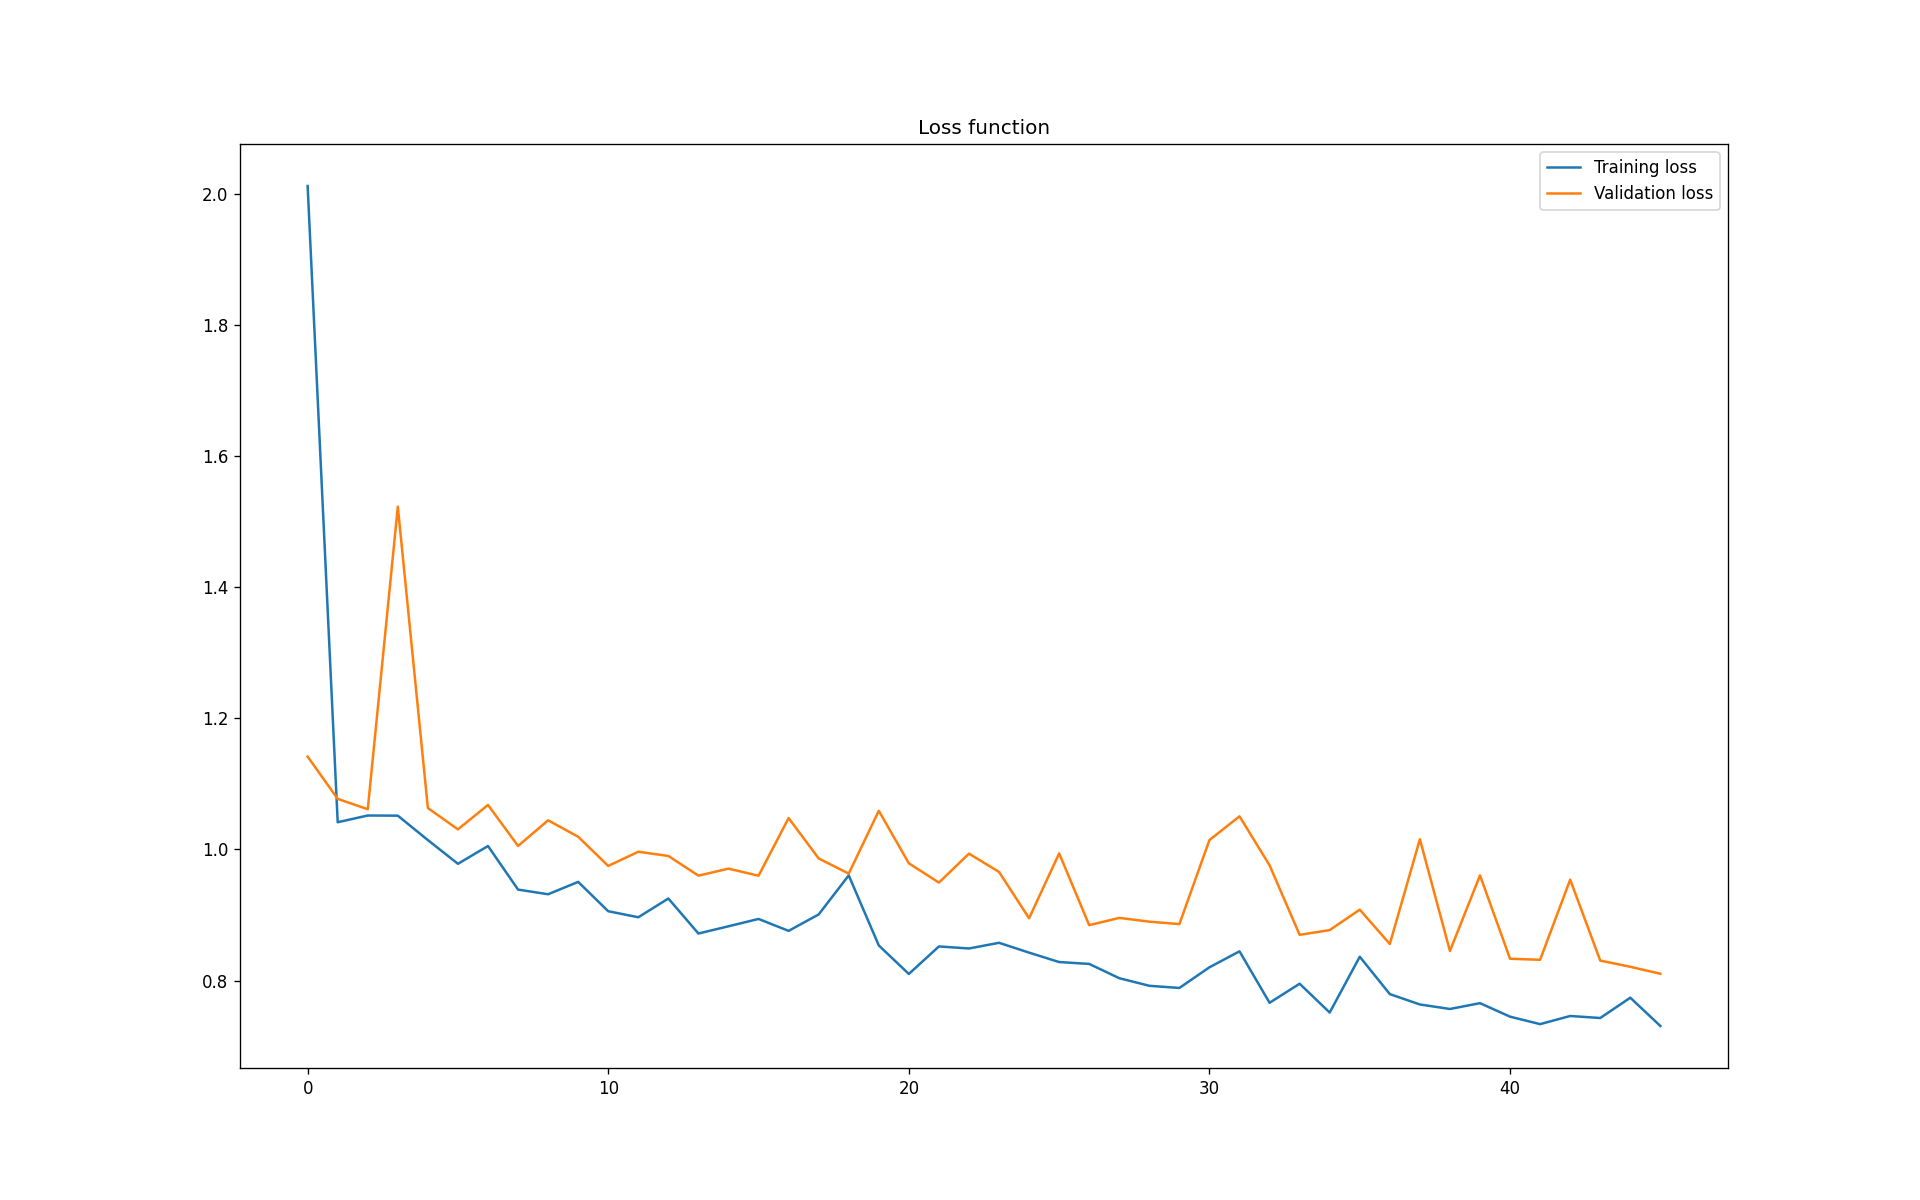
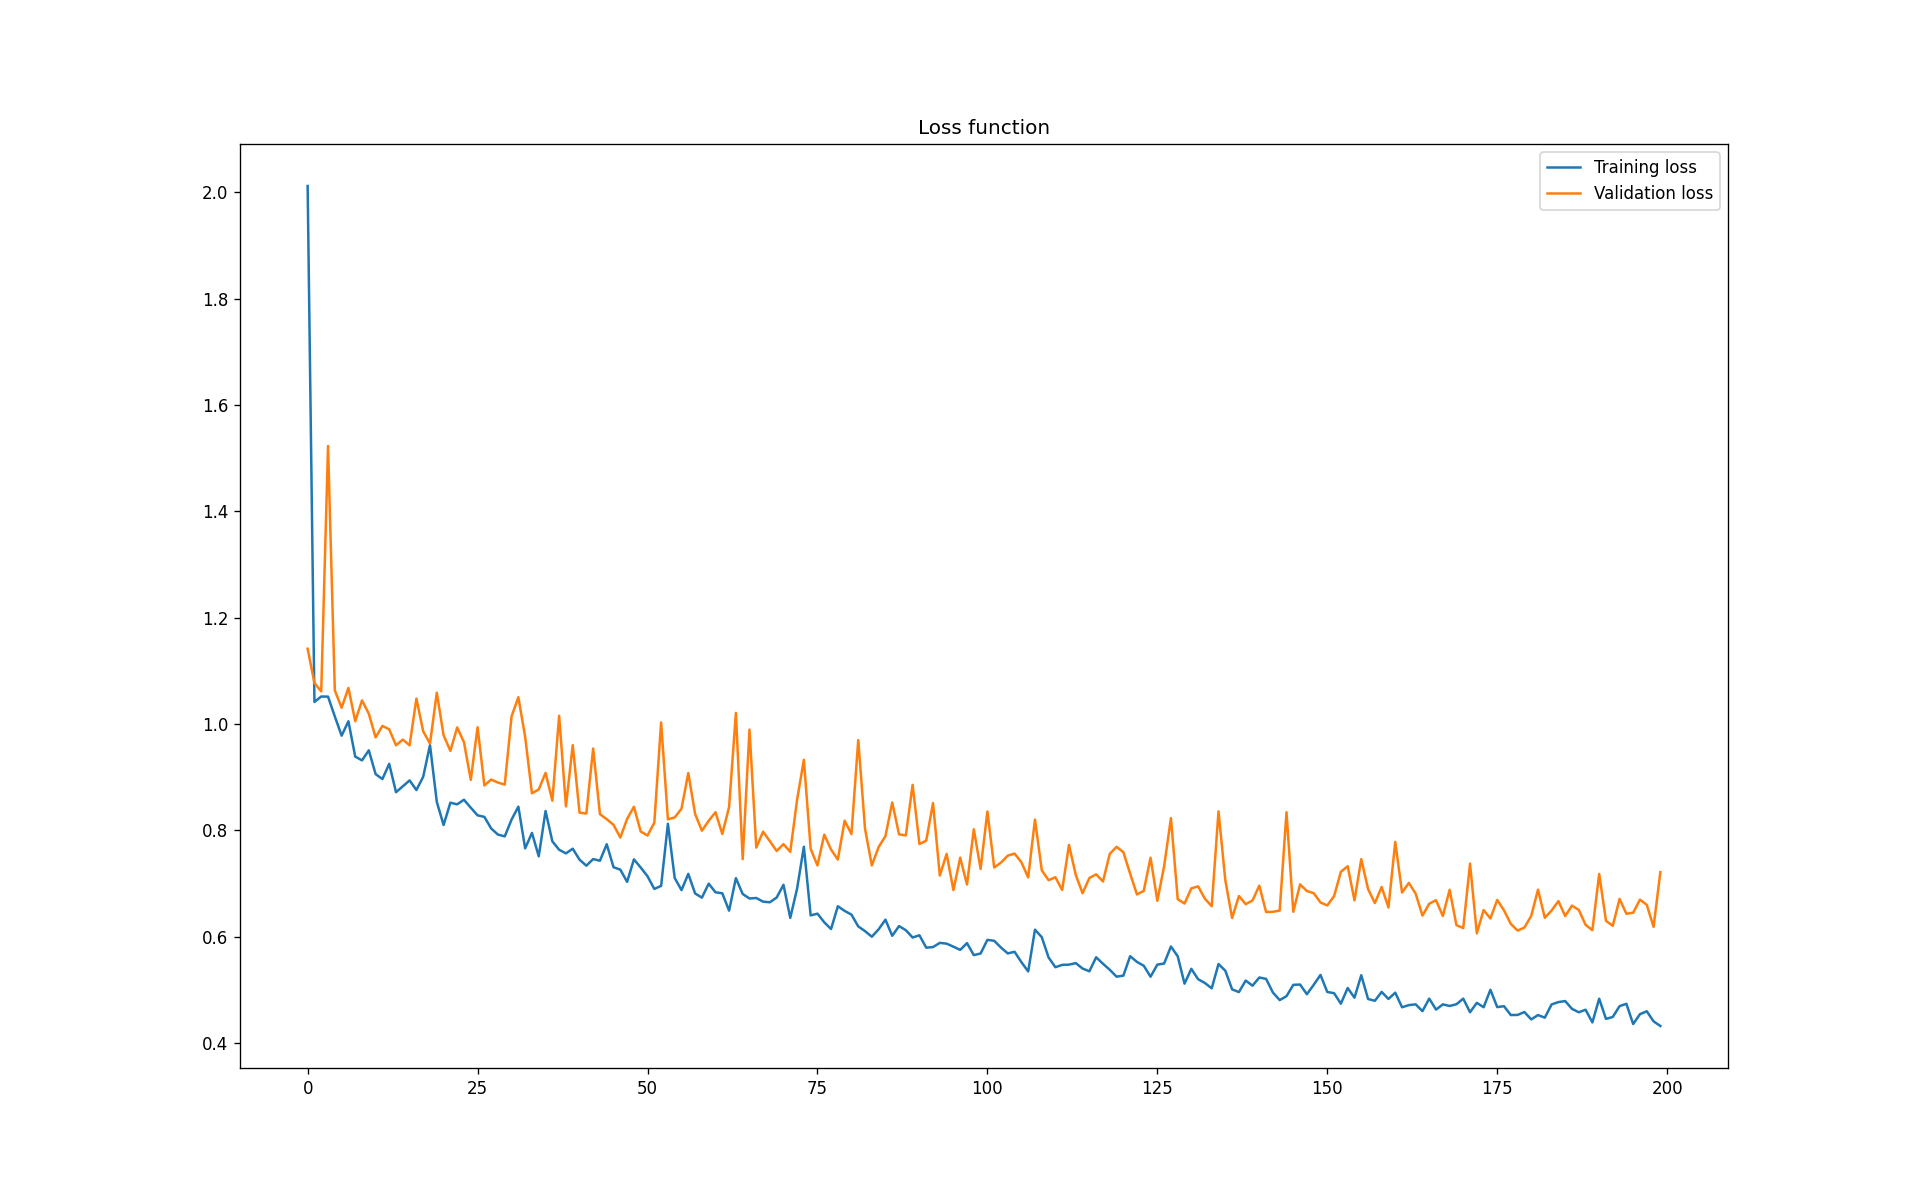
summaries

diff --git a/getbest.py b/getbest.py
@@ -47,10 +47,10 @@ def visualize_sample(model, img, gt_depth, loss, title, nsamples=3):
         depth_numpy = torch.squeeze(depth).detach().cpu().numpy()
 
         # Visualize
-        ax[r*3].imshow(gt_depth_numpy)
+        ax[r*3].imshow(gt_depth_numpy, vmin=0, vmax=10, cmap='gray')
         ax[r*3].set_axis_off()
         ax[r*3].set_title('Ground truth depth')
-        ax[r*3+1].imshow(depth_numpy)
+        ax[r*3+1].imshow(depth_numpy, vmin=0, vmax=10, cmap='gray')
         ax[r*3+1].set_axis_off()
         ax[r*3+1].set_title('Prediction depth')
         ax[r*3+2].imshow(image_numpy)
@@ -62,10 +62,8 @@ def visualize_sample(model, img, gt_depth, loss, title, nsamples=3):
     plt.tight_layout()
     #plt.show()
 
-    print("loss = ", loss.item())
 
-
-def test(model, test_set):
+def test(model, test_set, title):
     global w1, w2
 
     # Loss function dictionary
@@ -85,7 +83,7 @@ def test(model, test_set):
 
     for itr in range(N_test):
         # Verbose
-        print('Iteration %d/%d' %(itr+1, N_test))
+        # print('Iteration %d/%d' %(itr+1, N_test))
 
         # Get images and depths
         tgt_img, gt_depth = test_set.getSample(num=itr)
@@ -109,16 +107,16 @@ def test(model, test_set):
             running_loss_smooth += loss_3.item() / N_test
             running_loss += loss.item() / N_test
 
-            if best_loss == None or best_loss > loss:
-                best_img, best_dpt, best_loss = tgt_img, gt_depth, loss
-            if worst_loss == None or worst_loss < loss:
-                worst_img, worst_dpt, worst_loss = tgt_img, gt_depth, loss
+            if best_loss == None or best_loss > loss.item():
+                best_img, best_dpt, best_loss = tgt_img, gt_depth, loss.item()
+            if worst_loss == None or worst_loss < loss.item():
+                worst_img, worst_dpt, worst_loss = tgt_img, gt_depth, loss.item()
 
             torch.cuda.empty_cache()
 
     # Print results on training dataset
     print('------------------------------------------------')
-    print('################ Test results ##################')
+    print('################ ' + title + ' results ##################')
     print('Photometric loss {:.4f}, Smooth loss {:.4f}, Overall loss {:.4f}'.format(running_loss_photo, running_loss_smooth, running_loss))
     print('------------------------------------------------')
 
@@ -141,16 +139,16 @@ if __name__ == '__main__':
     
     # Choosing best sample
     print('Choosing best sample in train dataset...')
-    worst_img, worst_dpt, worst_loss, best_img, best_dpt, best_loss = test(model=model, test_set=train_set)
+    worst_img, worst_dpt, worst_loss, best_img, best_dpt, best_loss = test(model=model, test_set=train_set, title="Training")
     visualize_sample(model, best_img, best_dpt, best_loss, 'Best training dataset', nsamples=1)
     visualize_sample(model, worst_img, worst_dpt, worst_loss, 'Worst training dataset', nsamples=1)
 
     print('Choosing best sample in validation dataset...')
-    worst_img, worst_dpt, worst_loss, best_img, best_dpt, best_loss = test(model=model, test_set=val_set)
+    worst_img, worst_dpt, worst_loss, best_img, best_dpt, best_loss = test(model=model, test_set=val_set, title="Validation")
     visualize_sample(model, best_img, best_dpt, best_loss, 'Best validation dataset', nsamples=1)
     visualize_sample(model, worst_img, worst_dpt, worst_loss, 'Worst validation dataset', nsamples=1)
 
     print('Choosing best sample in test dataset...')
-    worst_img, worst_dpt, worst_loss, best_img, best_dpt, best_loss = test(model=model, test_set=test_set)
+    worst_img, worst_dpt, worst_loss, best_img, best_dpt, best_loss = test(model=model, test_set=test_set, title="Test")
     visualize_sample(model, best_img, best_dpt, best_loss, 'Best test dataset', nsamples=1)
     visualize_sample(model, worst_img, worst_dpt, worst_loss, 'Worst test dataset', nsamples=1)

diff --git a/train.py b/train.py
@@ -48,6 +48,8 @@ def summary_writter():
             "\nBorder size : " + str(BORDER_SIZE) + \
             "\nMixUp : " + str(MIXUP) + \
             "\nMixUp ratio : " + str(MIXUP_SIZE) + \
+            "\nBlend : " + str(BLEND) + \
+            "\nBlend ratio : " + str(BLEND_SIZE) + \
             "\nRotation : " + str(ROTATE) + \
             "\nRotation angle : " + str(ROTATION_ANGLE) + \
             "\nRotation ratio : " + str(ROTATION_SIZE) + \
@@ -199,12 +201,12 @@ def train(batch_size, epochs):
         validation_loss.append(running_loss)
 
         # Saving the best model
-        if (best_loss == None) or (loss.item() < best_loss):
+        if (best_loss == None) or (validation_loss[-1] < best_loss):
             # Get best loss
-            best_loss = loss.item()
+            best_loss = validation_loss[-1]
             # Write in log file
             log_file = open(images_dir + "/best_validation loss.txt","w")
-            log_file.write("loss : " + str(round(best_loss,4)) + "\nepoch " + str(epoch))
+            log_file.write("loss : " + str(round(best_loss,4)) + "\nepoch " + str(epoch+1))
             log_file.close()
             # Save best model
             torch.save(model.state_dict(), model_path)
@@ -230,6 +232,8 @@ if __name__ == '__main__':
 
     summary_writter()
 
+    start = time.time()
+
     try:
 
         loss = train(batch_size=batch_size, epochs=EPOCHS)
@@ -241,7 +245,7 @@ if __name__ == '__main__':
         plt.title('Loss function')
         plt.grid(b=True, which='minor')
         fig.savefig(images_dir + '/learning_curve.png', dpi=fig.dpi)
-        plt.show()
+        # plt.show()
         
     
     except KeyboardInterrupt:
@@ -253,4 +257,7 @@ if __name__ == '__main__':
         plt.title('Loss function')
         plt.grid(b=True, which='minor')
         fig.savefig(images_dir + '/learning_curve.png', dpi=fig.dpi)
-        plt.show()
+        # plt.show()
+
+    end = time.time()
+    print('Training time {}s'.format(end-start))

diff --git a/preprocessing/data_transformations.py b/preprocessing/data_transformations.py
@@ -5,6 +5,7 @@ from scipy import ndimage
 from sklearn.model_selection import train_test_split
 from skimage.transform import resize
 import torch
+import matplotlib.pyplot as plt
 
 NYUD_MEAN = [0.481215, 0.41197756, 0.39314577]
 NYUD_STD = [0.28848645, 0.29521945, 0.3089535]
@@ -149,6 +150,8 @@ class DataSet():
                 imgs, dpts = RandomRotate(imgs, dpts)
             if MIXUP:
                 imgs, dpts = MixUp(imgs, dpts, size=MIXUP_SIZE)
+            if BLEND:
+                imgs, dpts = Blend(imgs, dpts, size=BLEND_SIZE)
         else:
             imgs, dpts = self.centerCrop(imgs, dpts)
 
@@ -250,7 +253,8 @@ def MixUp(images, depths, param=0.2, size=MIXUP_SIZE):
 
     return images, depths
 
-def Blend(images, depths, param=0.2, size=MIXUP_SIZE):
+
+def Blend(images, depths, size=BLEND_SIZE):
     # Number of mixed images
     ssize = int(BATCH_SIZE*size)
 
@@ -263,8 +267,8 @@ def Blend(images, depths, param=0.2, size=MIXUP_SIZE):
 
         # Blend augmentation
         crop_width = np.random.randint(IMG_WIDTH/5, 4*IMG_WIDTH/5)
-        img_tmp = images[inds[0], :, :, :crop_width] + images[inds[1], :, :, crop_width:]
-        dpt_tmp = depths[inds[0], :, :, :crop_width] + depths[inds[1], :, :, crop_width:]
+        img_tmp = np.concatenate((images[inds[0], :, :, :crop_width], images[inds[1], :, :, crop_width:]), axis=2)
+        dpt_tmp = np.concatenate((depths[inds[0], :, :, :crop_width], depths[inds[1], :, :, crop_width:]), axis=2)
 
         # Randomly choose where to save image
         ind = choice(inds)
@@ -274,6 +278,7 @@ def Blend(images, depths, param=0.2, size=MIXUP_SIZE):
         depths[ind] = dpt_tmp
 
     return images, depths
+
 
 def RandomRotate(images, depths, angle=ROTATION_ANGLE, size=ROTATION_SIZE):
 

diff --git a/evaluate.py b/evaluate.py
@@ -49,10 +49,10 @@ def visualize_sample(model, dataset, title, nsamples=3):
         depth_numpy = torch.squeeze(depth).detach().cpu().numpy()
 
         # Visualize
-        ax[r*3].imshow(gt_depth_numpy)
+        ax[r*3].imshow(gt_depth_numpy, vmin=0, vmax=10, cmap='gray')
         ax[r*3].set_axis_off()
         ax[r*3].set_title('Ground truth depth')
-        ax[r*3+1].imshow(depth_numpy)
+        ax[r*3+1].imshow(depth_numpy, vmin=0, vmax=10, cmap='gray')
         ax[r*3+1].set_axis_off()
         ax[r*3+1].set_title('Prediction depth')
         ax[r*3+2].imshow(image_numpy)
@@ -76,6 +76,9 @@ def test(model, test_set):
     running_loss_smooth = 0
     running_loss = 0
 
+    # Calculate forward mean time
+    mean_time = 0
+
     # Evaluation on test dataset
     N_test = test_set.initBatch(batch_size=1)
 
@@ -93,7 +96,10 @@ def test(model, test_set):
 
         with torch.no_grad():
             # Prediction
+            start = time()
             disparities = model(tgt_img)
+            end = time()
+            mean_time += (end-start) / BATCH_SIZE
             depth = 1 / disparities
             
             # Calculate loss
@@ -108,10 +114,13 @@ def test(model, test_set):
 
             torch.cuda.empty_cache()
 
+    mean_time /= N_test
+
     # Print results on training dataset
     print('------------------------------------------------')
     print('################ Test results ##################')
     print('Photometric loss {:.4f}, Smooth loss {:.4f}, Overall loss {:.4f}'.format(running_loss_photo, running_loss_smooth, running_loss))
+    print('Average inference time: {:.4f}'.format(mean_time))
     print('------------------------------------------------')
 
     

diff --git a/hyperparameters.py b/hyperparameters.py
@@ -5,10 +5,11 @@ EPOCHS = 200
 BATCH_SIZE = 64
 GAMMA, STEP = 1, 10000
 USE_SCHEDULER = False
-LOSS = 'l1'
+LOSS = 'behru'
 SMOOTH_L1 = False
-SMOOTH_THRESH = 0.6
-MODEL_NAME = '2021_08_07_N07'
+SMOOTH_THRESH = 0.5
+MODEL_NAME = '2021_08_08_N06'
+
 # Transformations
 BORDER_SIZE = 10
 IMG_HEIGHT = 96
@@ -16,12 +17,19 @@ IMG_WIDTH = 128
 IMG_HEIGHT_RESCALE = 128
 IMG_WIDTH_RESCALE = 150
 P_FLIP = 0.5
+
 # MixUp
-MIXUP = True
+MIXUP = False
 MIXUP_SIZE = 0.4
+
+# Blend
+BLEND = True
+BLEND_SIZE = 0.2
+
 # Rotation
 ROTATE = True
 ROTATION_SIZE = 0.5
 ROTATION_ANGLE = 10
+
 # Train test split
 SPLIT_RATIO = 0.1
